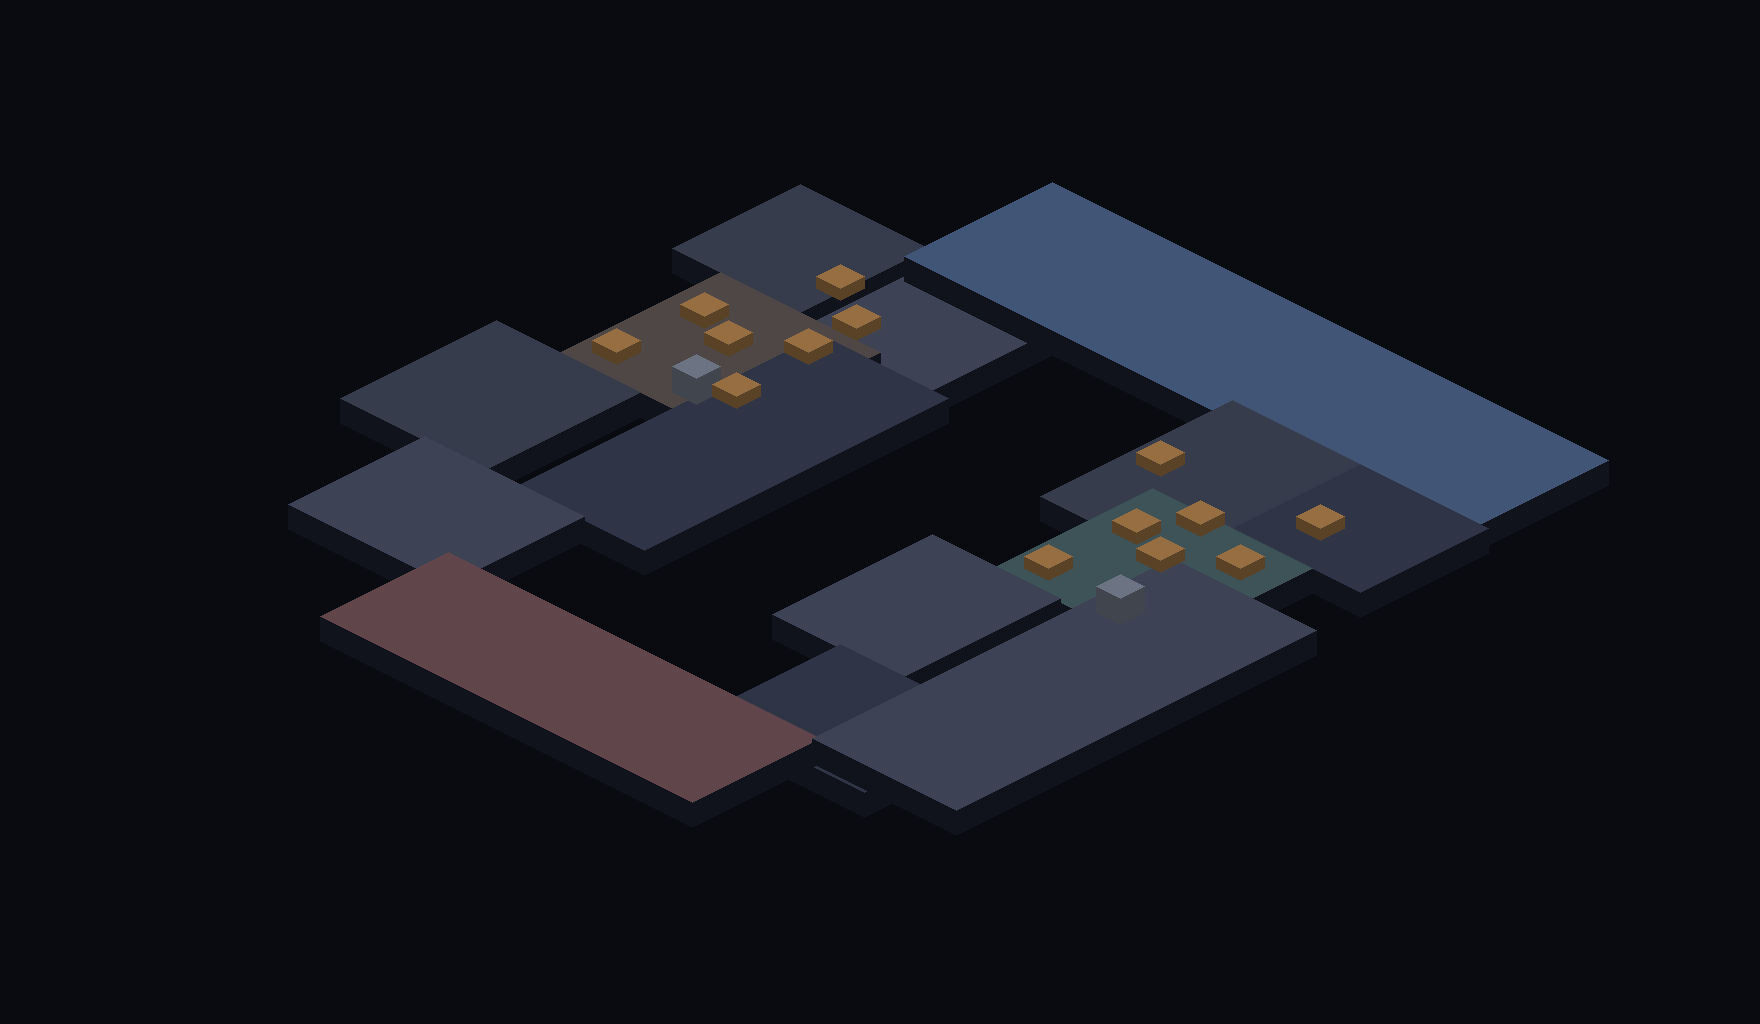
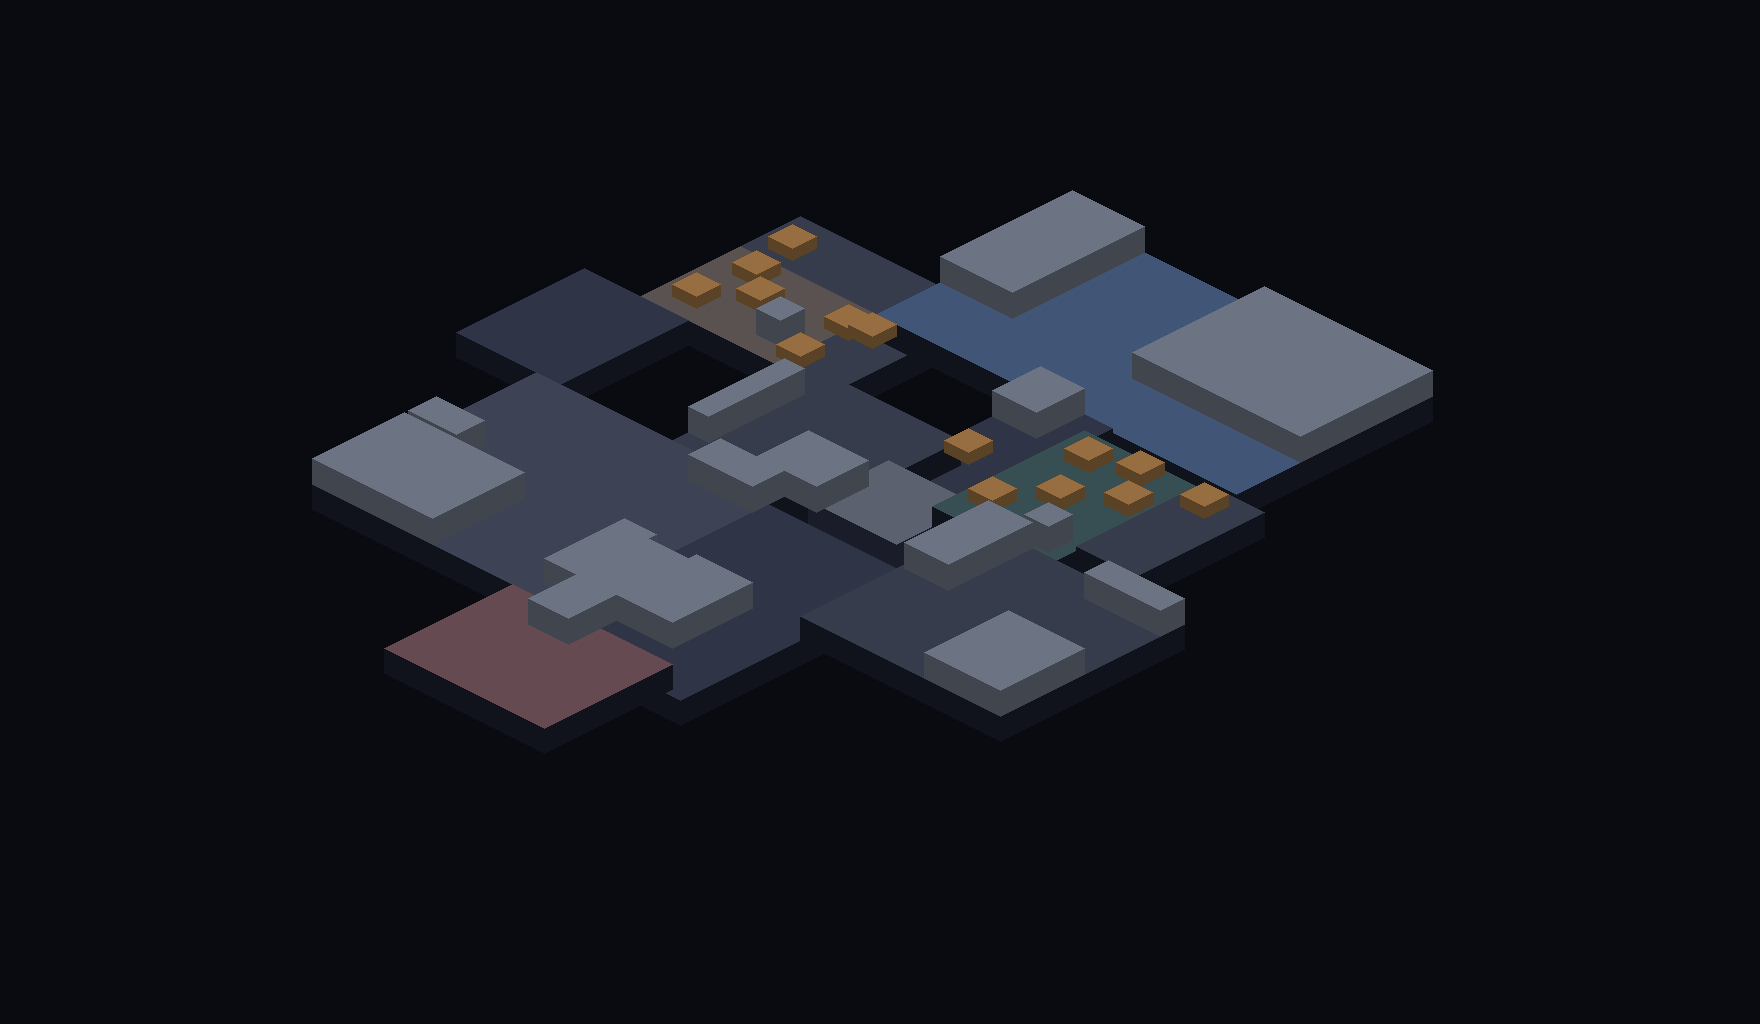
Trace Bind from the real minimap; declare its doorway spans
One-for-one rebuild of Bind geometry from the wiki minimap (flipv into
the canonical frame). The A-frame attacker spawn keeps only its peak;
the diagonal arms live in A Lobby and Fountain with void-wedge masks,
and B Long now doors off Fountain like the real street. Hookah gets
z=3 over B Site. Defender spawn is the CT strip plus the spawn vase
(masked flanks) so retakes muster from the courtyard, not the strip.
Dogleg corridors pace the real switchback walks (stages 14.2/11.5s,
rotate 25.6s, defenders 11.3s via the Hookah TP, which is realism we
get for free). b_elbow<->b_long edge and the a_uhall->a_showers read
are gone: the real map walls both off. Seventeen doorway openings
declared; movement_model flips to free per the #331 migration recipe.
Balance 47.4% attack: in band, defense-leaning like the real map.

Bind's painted backdrop is now STALE pending an /art-pass repaint.
Golden re-blessed (also folds in the #331 fixture drift).

Changed region(s): [[0.1562, 0.1875, 0.9062, 0.8125]]

diff --git a/scripts/wiki_map_trace.py b/scripts/wiki_map_trace.py
@@ -6,7 +6,7 @@ left, B site right), and overlays authored geometry back onto the source
 for one-for-one verification. Used by the /trace-map skill.
 
 Subcommands (all paths positional):
-  grid <in.png> <out.png> [--rotate ccw|cw|none]
+  grid <in.png> <out.png> [--rotate ccw|cw|180|flipv|transpose|none]
       Crop to the walkable floor, rotate into the canonical frame, and
       draw a 0-100 unit grid (5u minor / 10u major, labeled). Also
       writes <out>_clean.png (the ungridded canonical crop) plus a
@@ -42,8 +42,11 @@ def _font(size: int = 20):
 
 def _is_floor(r: int, g: int, b: int) -> bool:
     """Floor pixels are grey/olive; background is near-black, UI is
-    saturated red."""
+    saturated red, and gimmick indicators (teleporter paths, door arcs)
+    are saturated teal/green lines that can sweep far off the floor."""
     if r > 180 and g < 90 and b < 90:
+        return False
+    if g > r + 80:  # teal/green overlay lines; grey and olive keep g ~ r
         return False
     return (r + g + b) > 180
 
@@ -70,6 +73,20 @@ def cmd_grid(args: argparse.Namespace) -> None:
         crop = crop.rotate(90, expand=True)
     elif args.rotate == "cw":
         crop = crop.rotate(-90, expand=True)
+    elif args.rotate == "180":
+        crop = crop.rotate(180)
+    elif args.rotate == "flipv":
+        # Vertical mirror: for sources already in broadcast orientation
+        # (attackers at the bottom, A left) — flipping y lands attackers
+        # at low y while keeping A on the left. Shapes stay true; the
+        # map's chirality mirrors, which the viewer never exposes.
+        crop = crop.transpose(Image.Transpose.FLIP_TOP_BOTTOM)
+    elif args.rotate == "transpose":
+        # Main-diagonal reflection (x<->y swap): for sources with the
+        # attacker spawn WEST and the A-most site NORTH — lands
+        # attackers at low y with that site on the left. Mirrors
+        # chirality like flipv.
+        crop = crop.transpose(Image.Transpose.TRANSPOSE)
     cw, ch = crop.size
     upp = 100.0 / max(cw, ch)
     out = Path(args.out)
@@ -199,7 +216,11 @@ def main() -> None:
     g = sub.add_parser("grid")
     g.add_argument("src")
     g.add_argument("out")
-    g.add_argument("--rotate", choices=["ccw", "cw", "none"], default="ccw")
+    g.add_argument(
+        "--rotate",
+        choices=["ccw", "cw", "180", "flipv", "transpose", "none"],
+        default="ccw",
+    )
     g.set_defaults(fn=cmd_grid)
     zp = sub.add_parser("zoom")
     zp.add_argument("gridded")
